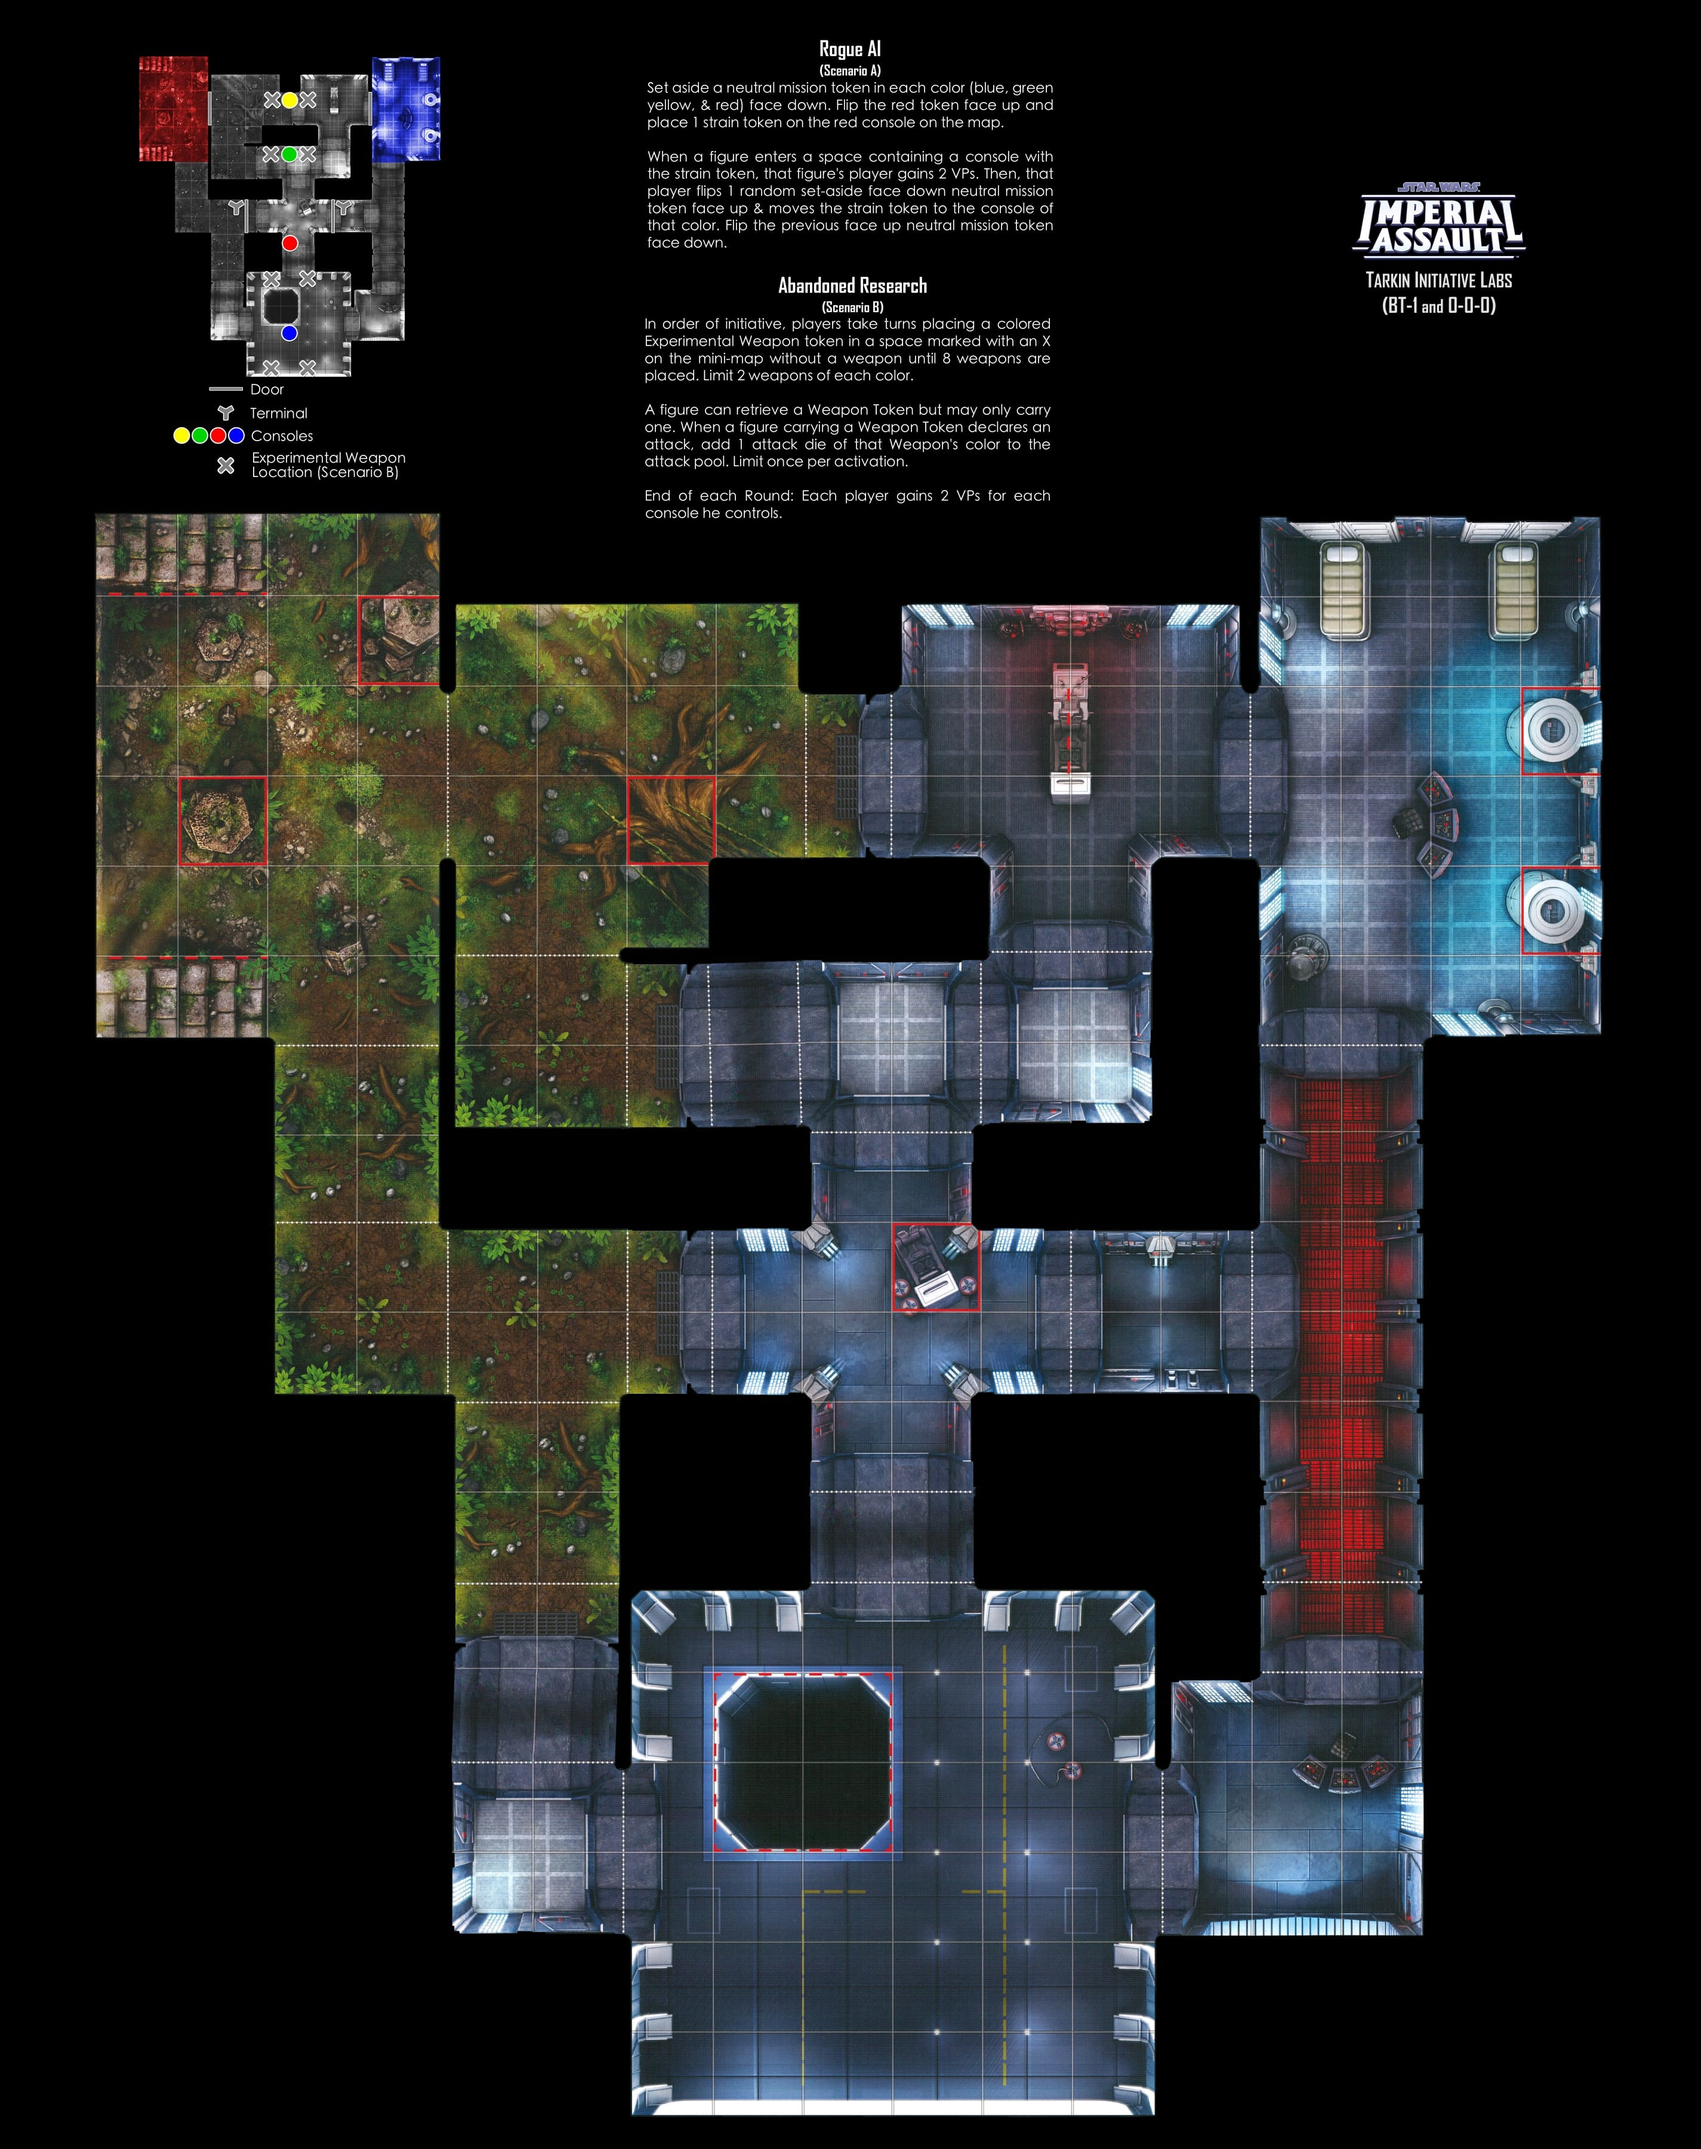
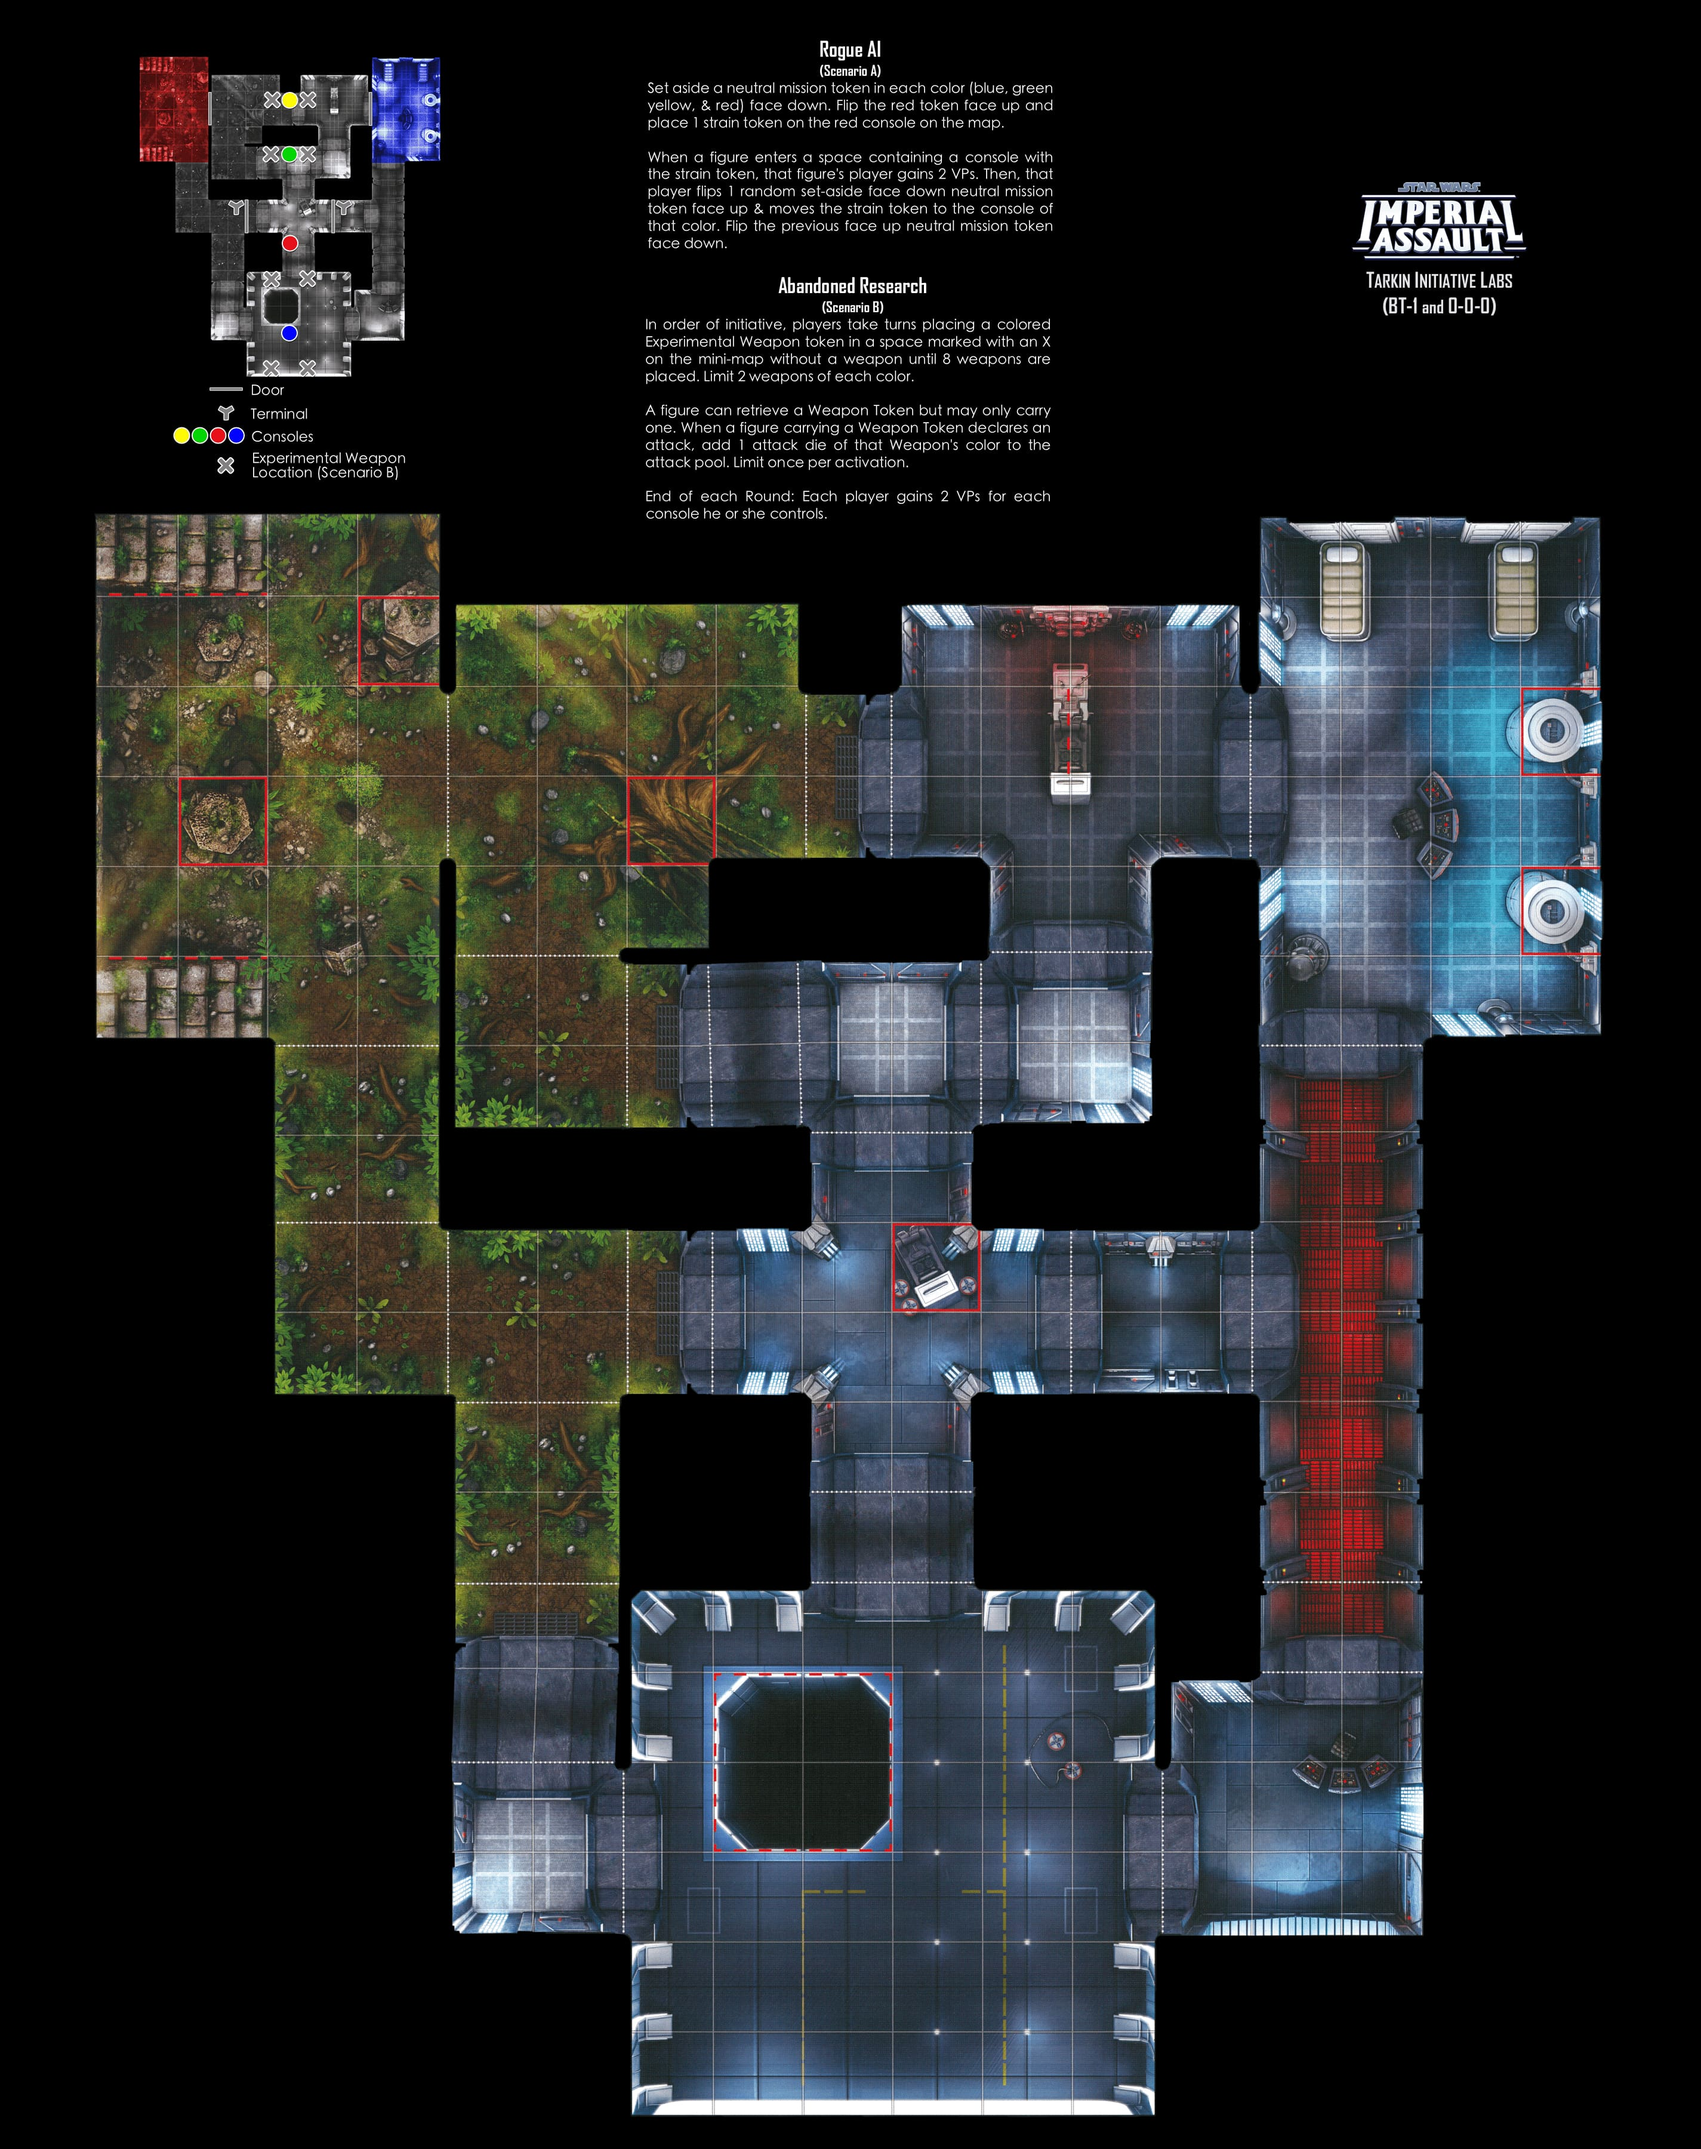
fix gendered language on Tarkin Labs

diff --git a/download_and_convert_ia_skirmish.py b/download_and_convert_ia_skirmish.py
@@ -32,10 +32,10 @@ mapDict = {
     # 'ReinforcementWave2BanthaSmuggler':    [23,24],
     # 'BespinGambit':                        [25,26,27,28,29],
     # 'ReinforcementWave3ObiGreedoGI':       [30,31,32],
-    'JabbasRealmIncomplete':               [33,34,35,37],
+    # 'JabbasRealmIncomplete':               [33,34,35,37],
     # 'JabbasRealm':                         [33,34,35,36,37], #full set is not finished yet
-    # 'ReinforcementWave4Droids':            [38,39,40],
-    'TournamenRotationAnchorheadJabbaNalHutta': [30,37,35],
+    'ReinforcementWave4Droids':            [38,39,40],
+    # 'TournamenRotationAnchorheadJabbaNalHutta': [30,37,35],
      }
 
 # build the all map group from all numbers listed above
